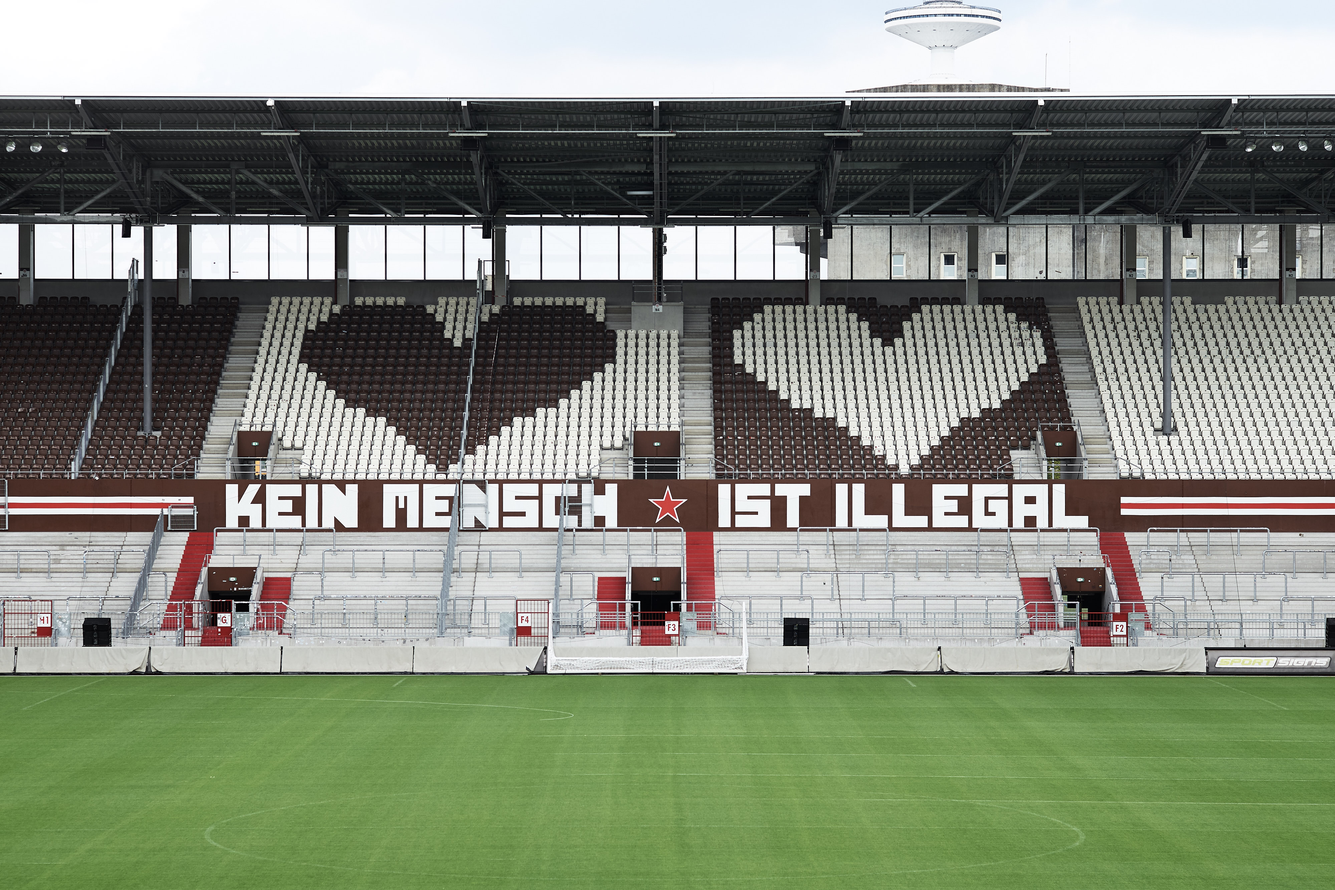
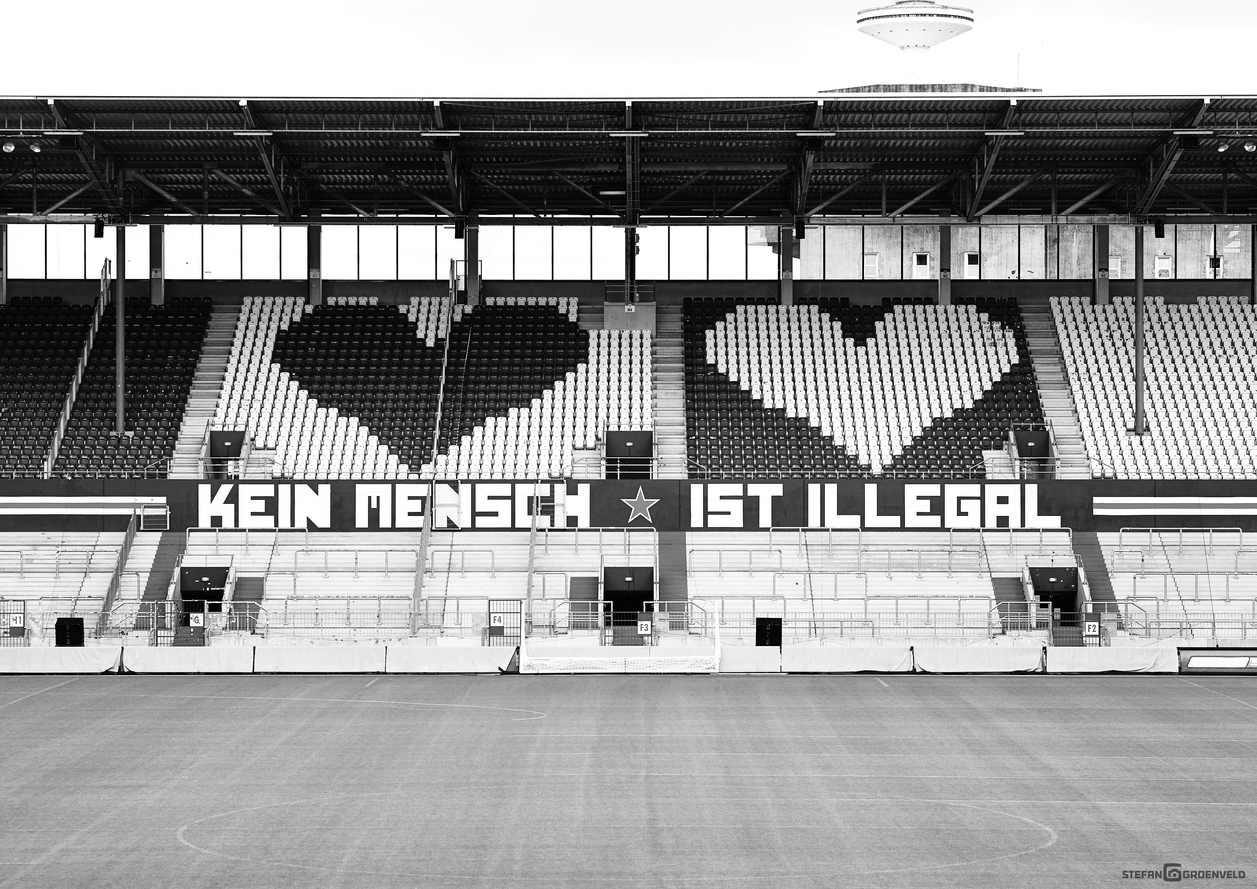
use images from stefan and fix his name

diff --git a/api/controllers/startNumberController.js b/api/controllers/startNumberController.js
@@ -28,7 +28,7 @@ function generatePdf(participant) {
     doc.image(__dirname + "/../" + pathToBackgroundImage,{fit:[630,632] });
     doc.image(__dirname + "/../" + pathToLogoRight, 515, 0, {fit: [80, 80]});
     doc.font('Helvetica-Bold').fontSize(200).fillColor("brown").text(participant.startNumber, 0, 30, {align: 'center'});
-    doc.font('Helvetica-Bold').fontSize(8).fillColor("white").text("©Stefan Groenveldt", 500, 410, {align: 'center'});
+    doc.font('Helvetica-Bold').fontSize(8).fillColor("white").text("©Stefan Groenveld", 500, 410, {align: 'center'});
     if (participant.firstName) {doc.fontSize(40).fillColor('white').text(participant.firstName, 0, 190, {align: 'center'});}
     if (participant.team) {doc.fontSize(40).fillColor('white').text(participant.team, 0, 230, {align: 'center'});}
     if (participant.hasPayed == false) {
@@ -40,7 +40,7 @@ function generatePdf(participant) {
     doc.image(__dirname + "/../" + pathToBlackAndWhiteBackgroundImage,{fit:[630,632] });
     doc.image(__dirname + "/../" + pathToLogoRight, 515, 0, {fit: [80, 80]});
     doc.font('Helvetica-Bold').fontSize(200).fillColor("white").text(participant.startNumber, 0, 55, {align: 'center'});
-    doc.font('Helvetica-Bold').fontSize(8).fillColor("white").text("©Stefan Groenveldt", 500, 410, {align: 'center'});
+    doc.font('Helvetica-Bold').fontSize(8).fillColor("white").text("©Stefan Groenveld", 500, 410, {align: 'center'});
     if (participant.hasPayed == false) {
         doc.rotate(20)
         doc.font('Helvetica-Bold').fontSize(40).fillColor("yellow").text("Noch nicht bezahlt", 0, 30, {align: 'center'});

diff --git a/view/src/components/basic/acab.vue b/view/src/components/basic/acab.vue
@@ -2,9 +2,9 @@
   <v-img
       src="/fcsp_allcolorsarbeautiful.jpeg"
       lazy-src="/fcsp_allcolorsarbeautiful_small.jpeg"
-      alt="Stadion mit grossem All colors are beautiful Transpi. Foto dankenswerter weise von Stefan Groenveldt"
+      alt="Stadion mit grossem All colors are beautiful Transpi. Foto dankenswerter weise von Stefan Groenveld"
       class="text-right white--text align-end"
-  >&copy;Stefan Groenveldt
+  >&copy;Stefan Groenveld
   </v-img>
 </template>
 <script>
